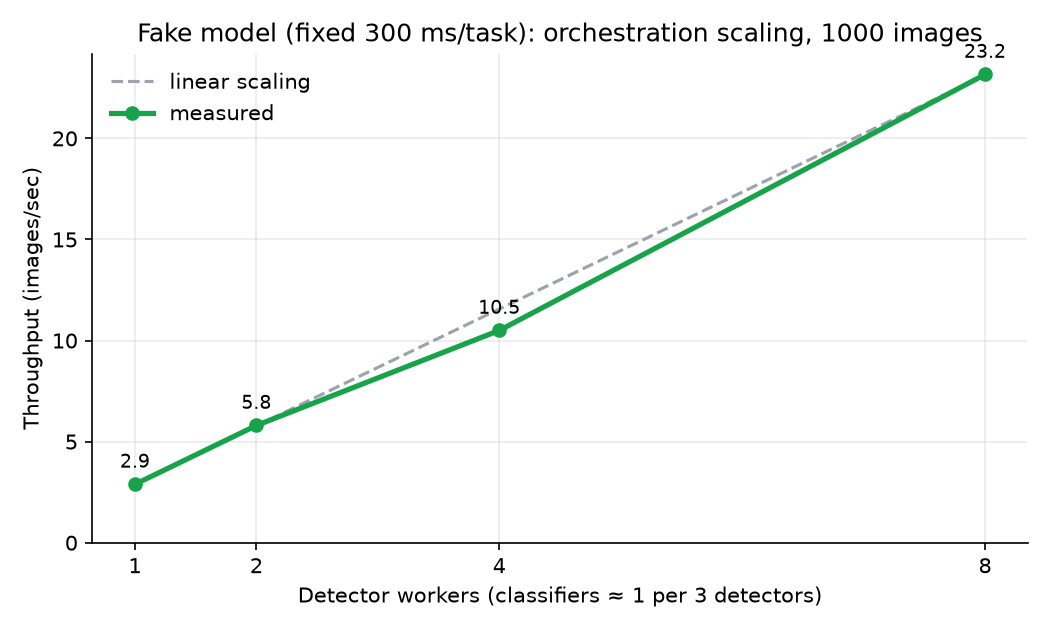
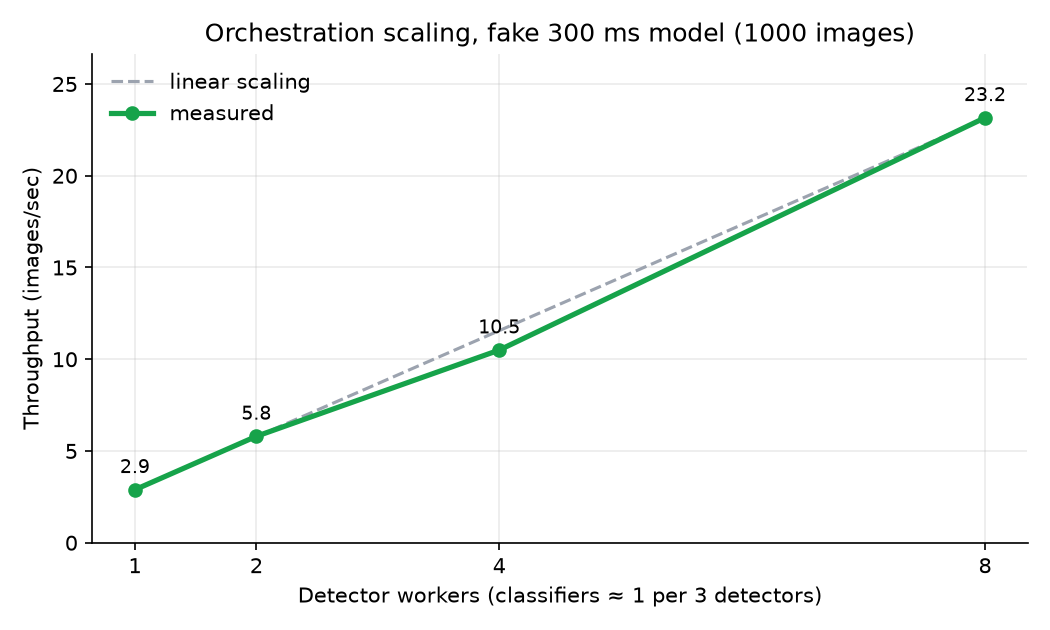
Add demo GIF; chart headroom

diff --git a/scripts/plot_benchmark.py b/scripts/plot_benchmark.py
@@ -26,12 +26,12 @@ for w, t in zip(workers, throughput):
 ax.set_xlabel("Detector workers (classifiers ≈ 1 per 3 detectors)")
 ax.set_ylabel("Throughput (images/sec)")
 ax.set_title(
-    f"Fake model (fixed 300 ms/task): orchestration scaling, {rows[0]['images']} images"
+    f"Orchestration scaling, fake 300 ms model ({rows[0]['images']} images)"
     if FAKE
     else f"ForgeGrid throughput vs workers ({rows[0]['images']} images, CPU)"
 )
 ax.set_xticks(workers)
-ax.set_ylim(bottom=0)
+ax.set_ylim(0, max(throughput + [base * workers[-1]]) * 1.15)
 ax.grid(alpha=0.25)
 ax.spines[["top", "right"]].set_visible(False)
 ax.legend(frameon=False)
